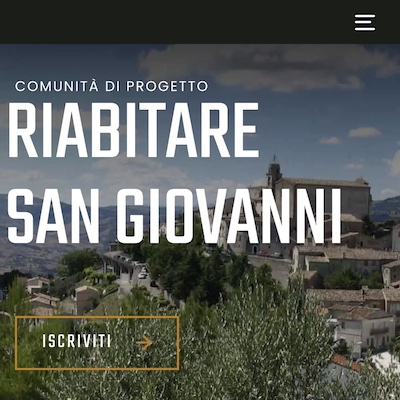
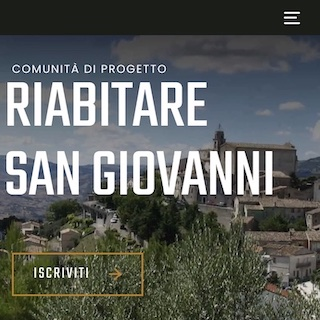
ml-auto

diff --git a/pages/maiellaverde.vue b/pages/maiellaverde.vue
@@ -7,9 +7,9 @@
                 <font-awesome-icon :icon="['fas', 'external-link-alt']" />
             </a>
         </div>
-        <div>
+        <div class="ml-auto">
             <a href="https://riabitaresangiovanni.maiellaverde.it/" target="_maiellaverde">
-                <nuxt-img src="/jpg/maiellaverde.jpg" alt="Maiella Verde" style="max-width: 80%; height:auto; float:right" />
+                <nuxt-img src="/jpg/maiellaverde.jpg" alt="Maiella Verde" style="max-width:100%;"/>
             </a>
         </div>
     </div>
